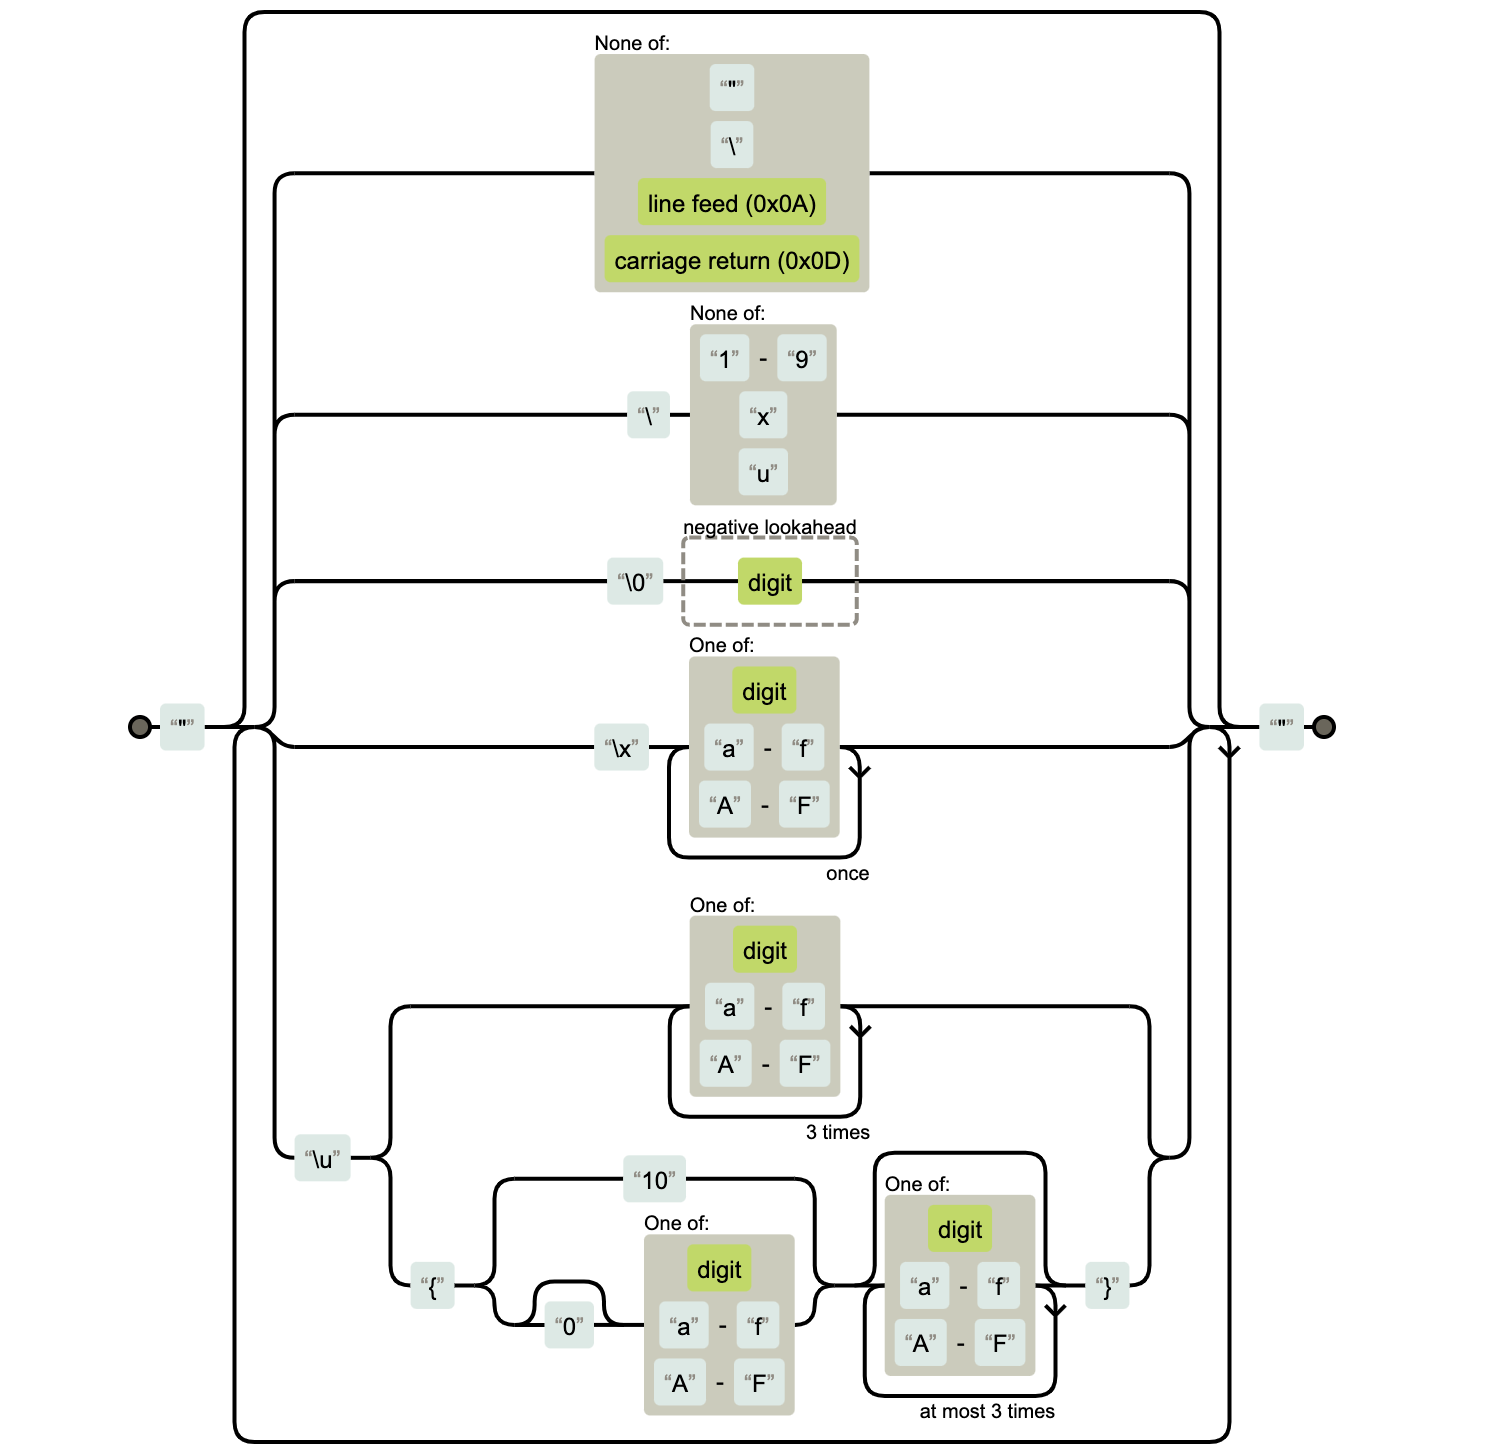
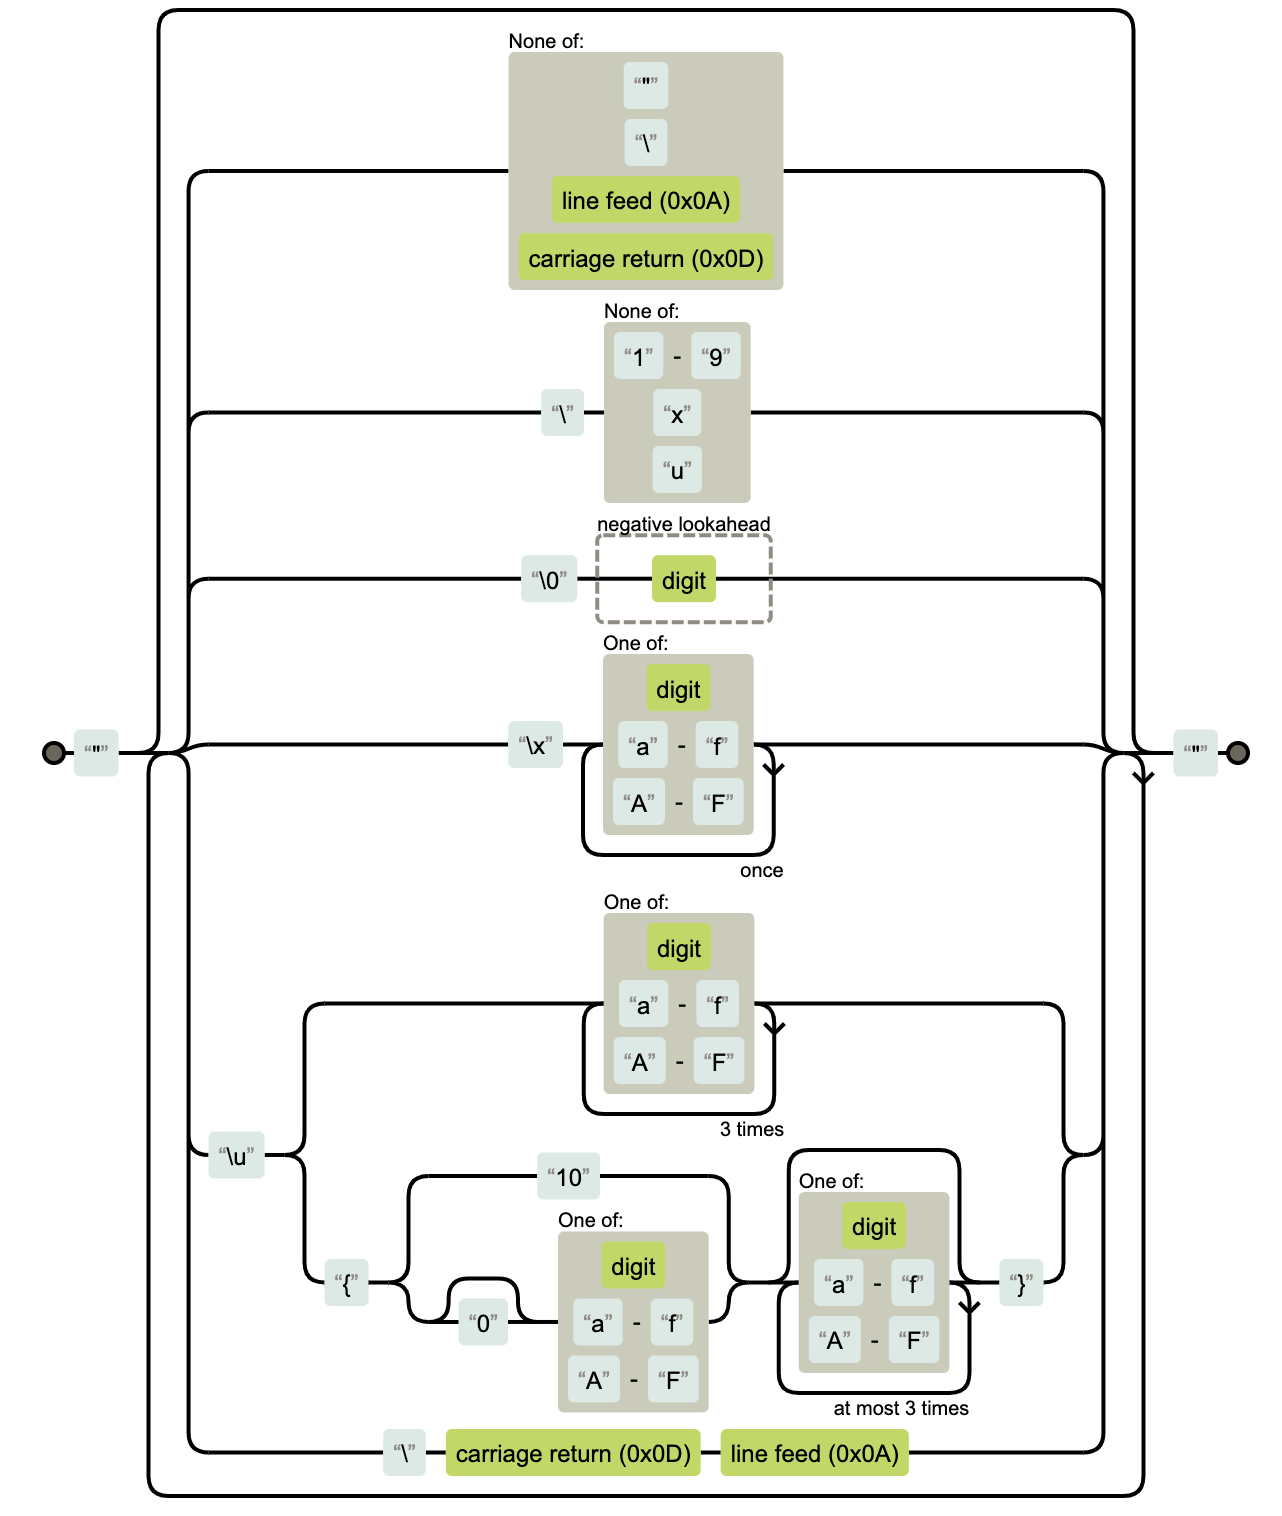
mosiya: finish ugly 02

Changed region(s): [[0.0312, 0.0, 0.9672, 1.0]]

diff --git a/week02/homework.md b/week02/homework.md
@@ -100,24 +100,44 @@
 
 ```js
 function UTF8Encoding(str) {
-  const codes = encodeURIComponent(str)
-  const bytes = []
-
-  for (let i = 0; i < codes.length; i++) {
-    const c = codes.charAt(i)
-    if (c === '%') {
-      const hex = codes.charAt(i + 1) + codes.charAt(i + 2)
-      const hexVal = parseInt(hex, 16)
-      bytes.push(hexVal)
-      i += 2
-    } else {
-      bytes.push(c.charCodeAt(0))
-    }
+  let length = str.codePointAt().toString(2).length
+  
+  if(length <= 7) {
+    return [str.codePointAt().toString(16)]
+  } else if(length <= 11) {
+    let x = str.codePointAt().toString(2)
+    let one = x.substr(-6, 6)
+    let two = x.substr(0, length - 6)
+    one = (btox(one) + 2 ** 7).toString(16)
+    two = (btox(two) + 2 ** 7 + 2 ** 6).toString(16)
+    return [ two, one ]
+  } else if(length <= 16) {
+    let x = str.codePointAt().toString(2)
+    let one = x.substr(-6, 6)
+    let two = x.substr(-2 * 6, 6)
+    let three = x.substr(0, length - 2*6)
+    one = (btox(one) + 2 ** 7).toString(16)
+    two = (btox(two) + 2 ** 7).toString(16)
+    three = (btox(three) + 2 ** 7 + 2 ** 6 + 2 ** 5).toString(16)
+    return [three, two, one]
+  } else if(length <= 21) {
+    let x = str.codePointAt().toString(2)
+    let one = x.substr(-6, 6)
+    let two = x.substr(-2 * 6, 6)
+    let three = x.substr(-3 * 6, 6)
+    let four = x.substr(0, length - 3 * 6)
+    one = (btox(one) + 2 ** 7).toString(16)
+    two = (btox(two) + 2 ** 7).toString(16)
+    three = (btox(three) + 2 ** 7).toString(16)
+    four = (btox(four) + 2 ** 7 + 2 ** 6 + 2 ** 5 + 2 ** 4).toString(16)
+    return [four, three, two, one]
   }
-  return bytes
 }
-```
+function btox(bi) {
+  return bi ? Number('0b' + bi) : 0
+}
 
+```
 
 
 ## 3. 写一个正则表达式，匹配所有的字符串直接量，单引号和双引号
@@ -203,7 +223,7 @@ LineTerminator 的代码为
 
 结合以上两条产生式， LineContinuation 的代码为
 ```js
-/\\[\n\r\u2028\u2029]/
+/\\(?:[\n\r\u2028\u2029]|\r\n)/
 ```
 
 #### EscapeSequence :: 
@@ -305,25 +325,25 @@ EscapeCharacter 的代码为
 得
 
 ```js
-/[^"\\\n\r]|\\[^0-9xu\n\r\u2028\u2029]|\\0(?!\d)|\\x[0-9a-fA-F]{2}|\\u(?:[0-9a-fA-F]{4}|\{(?:10|[0-9a-fA-F])[0-9a-fA-F]{0,4}\})|\\[\n\r\u2028\u2029]/u
+/[^"\\\n\r]|\\[^0-9xu\n\r\u2028\u2029]|\\0(?!\d)|\\x[0-9a-fA-F]{2}|\\u(?:[0-9a-fA-F]{4}|\{(?:10|[0-9a-fA-F])[0-9a-fA-F]{0,4}\})|\\(?:[\n\r\u2028\u2029]|\r\n)/u
 ```
 
 故可得 DoubleStringCharacters 的正则为：
 
 ```js
-/"(?:[^"\\\n\r]|\\[^0-9xu\n\r\u2028\u2029]|\\0(?!\d)|\\x[0-9a-fA-F]{2}|\\u(?:[0-9a-fA-F]{4}|\{(?:10|[0-9a-fA-F])[0-9a-fA-F]{0,4}\})|\\[\n\r\u2028\u2029])*"/u
+/"(?:[^"\\\n\r]|\\[^0-9xu\n\r\u2028\u2029]|\\0(?!\d)|\\x[0-9a-fA-F]{2}|\\u(?:[0-9a-fA-F]{4}|\{(?:10|[0-9a-fA-F])[0-9a-fA-F]{0,4}\})|\\(?:[\n\r\u2028\u2029]|\r\n))*"/u
 ```
 
 整理化简得 DoubleStringCharacters 的正则为：
 
 ```js
-/"(?:[^"\\\n\r]|\\[^1-9xu]|\\0(?!\d)|\\x[\da-fA-F]{2}|\\u(?:[\da-fA-F]{4}|\{(?:10|0?[\da-fA-F])[\da-fA-F]{0,4}\}))*"/
+/"(?:[^"\\\n\r]|\\[^1-9xu]|\\0(?!\d)|\\x[\da-fA-F]{2}|\\u(?:[\da-fA-F]{4}|\{(?:10|0?[\da-fA-F])[\da-fA-F]{0,4}\})|\\\r\n)*"/
 ```
 
 同理可得 SingleStringCharacters 的正则为：
 
 ```js
-/'(?:[^'\\\n\r]|\\[^1-9xu]|\\0(?!\d)|\\x[\da-fA-F]{2}|\\u(?:[\da-fA-F]{4}|\{(?:10|0?[\da-fA-F])[\da-fA-F]{0,4}\}))*'/
+/'(?:[^'\\\n\r]|\\[^1-9xu]|\\0(?!\d)|\\x[\da-fA-F]{2}|\\u(?:[\da-fA-F]{4}|\{(?:10|0?[\da-fA-F])[\da-fA-F]{0,4}\})|\\\r\n)*'/
 ```
 
 最终的分析结果分别如下：
